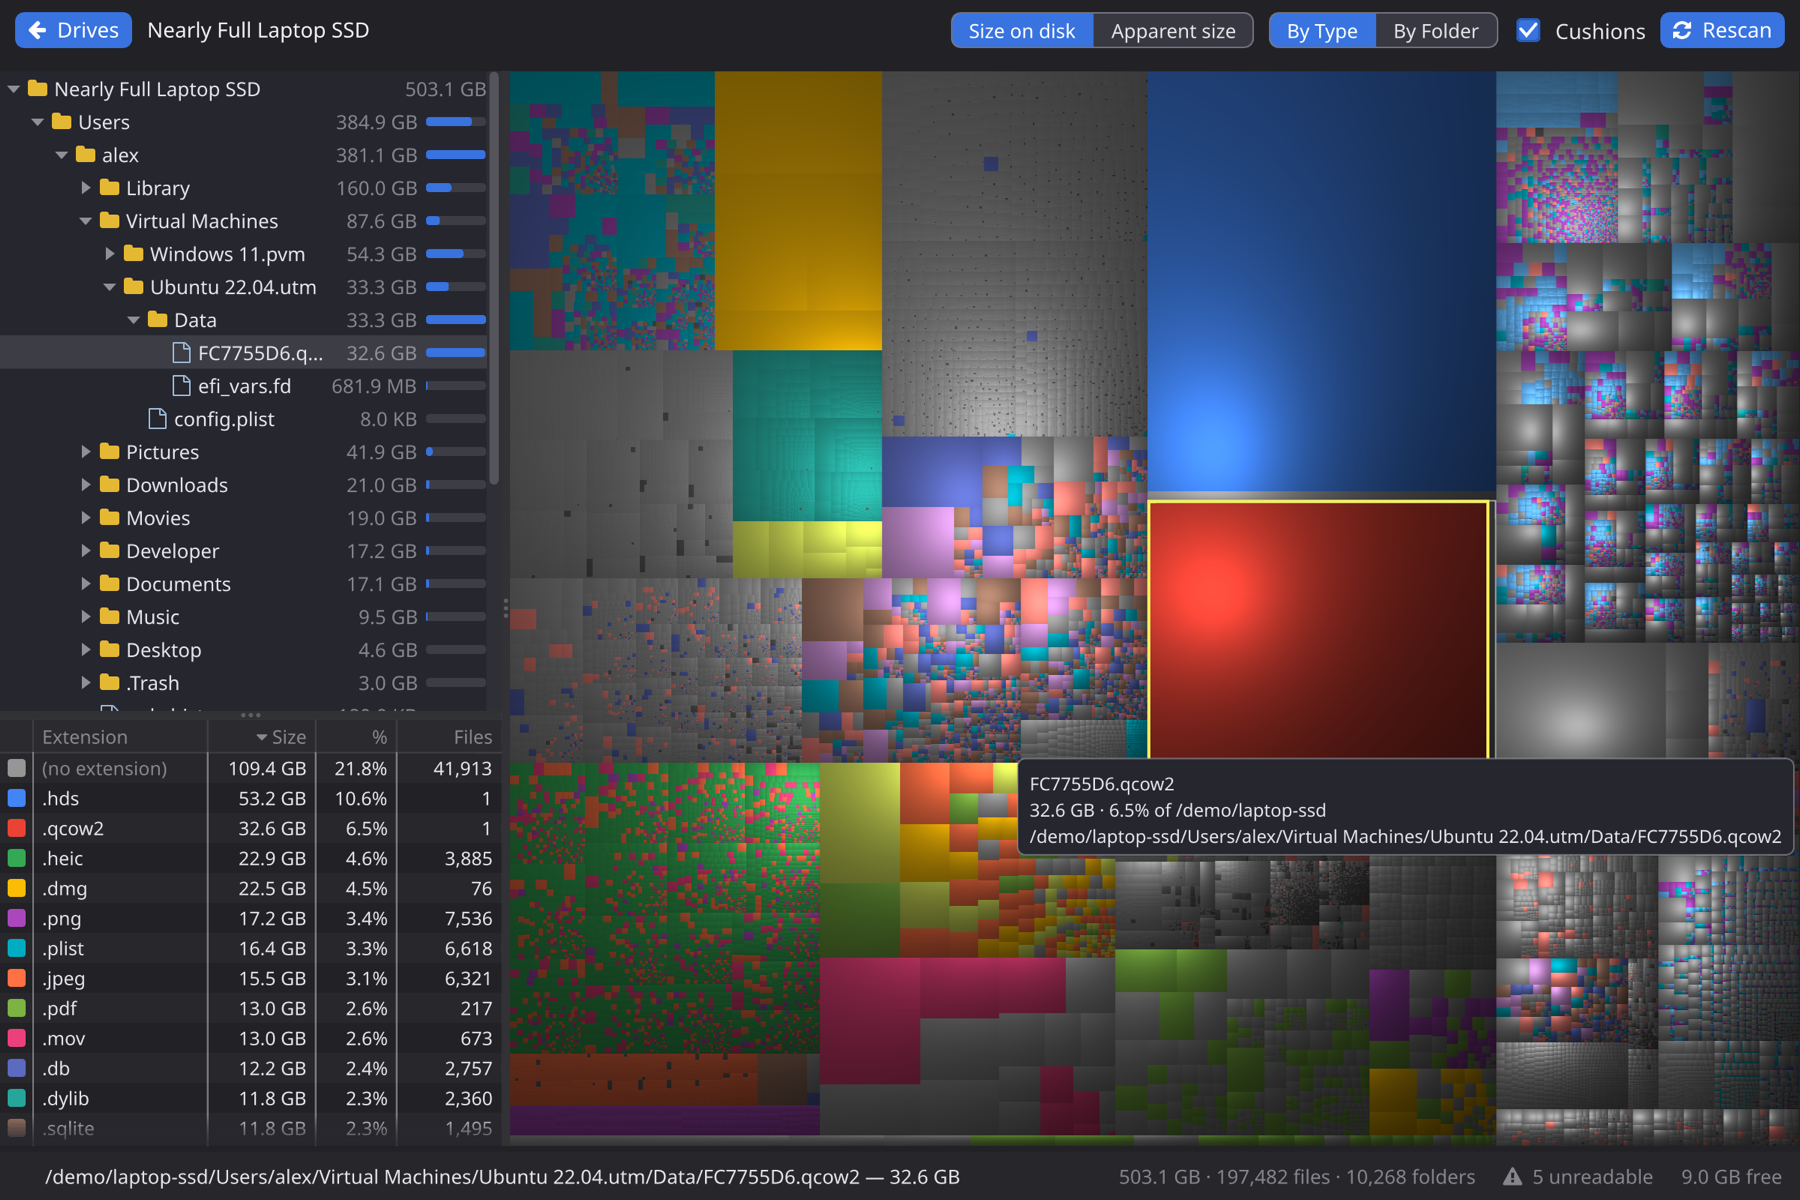
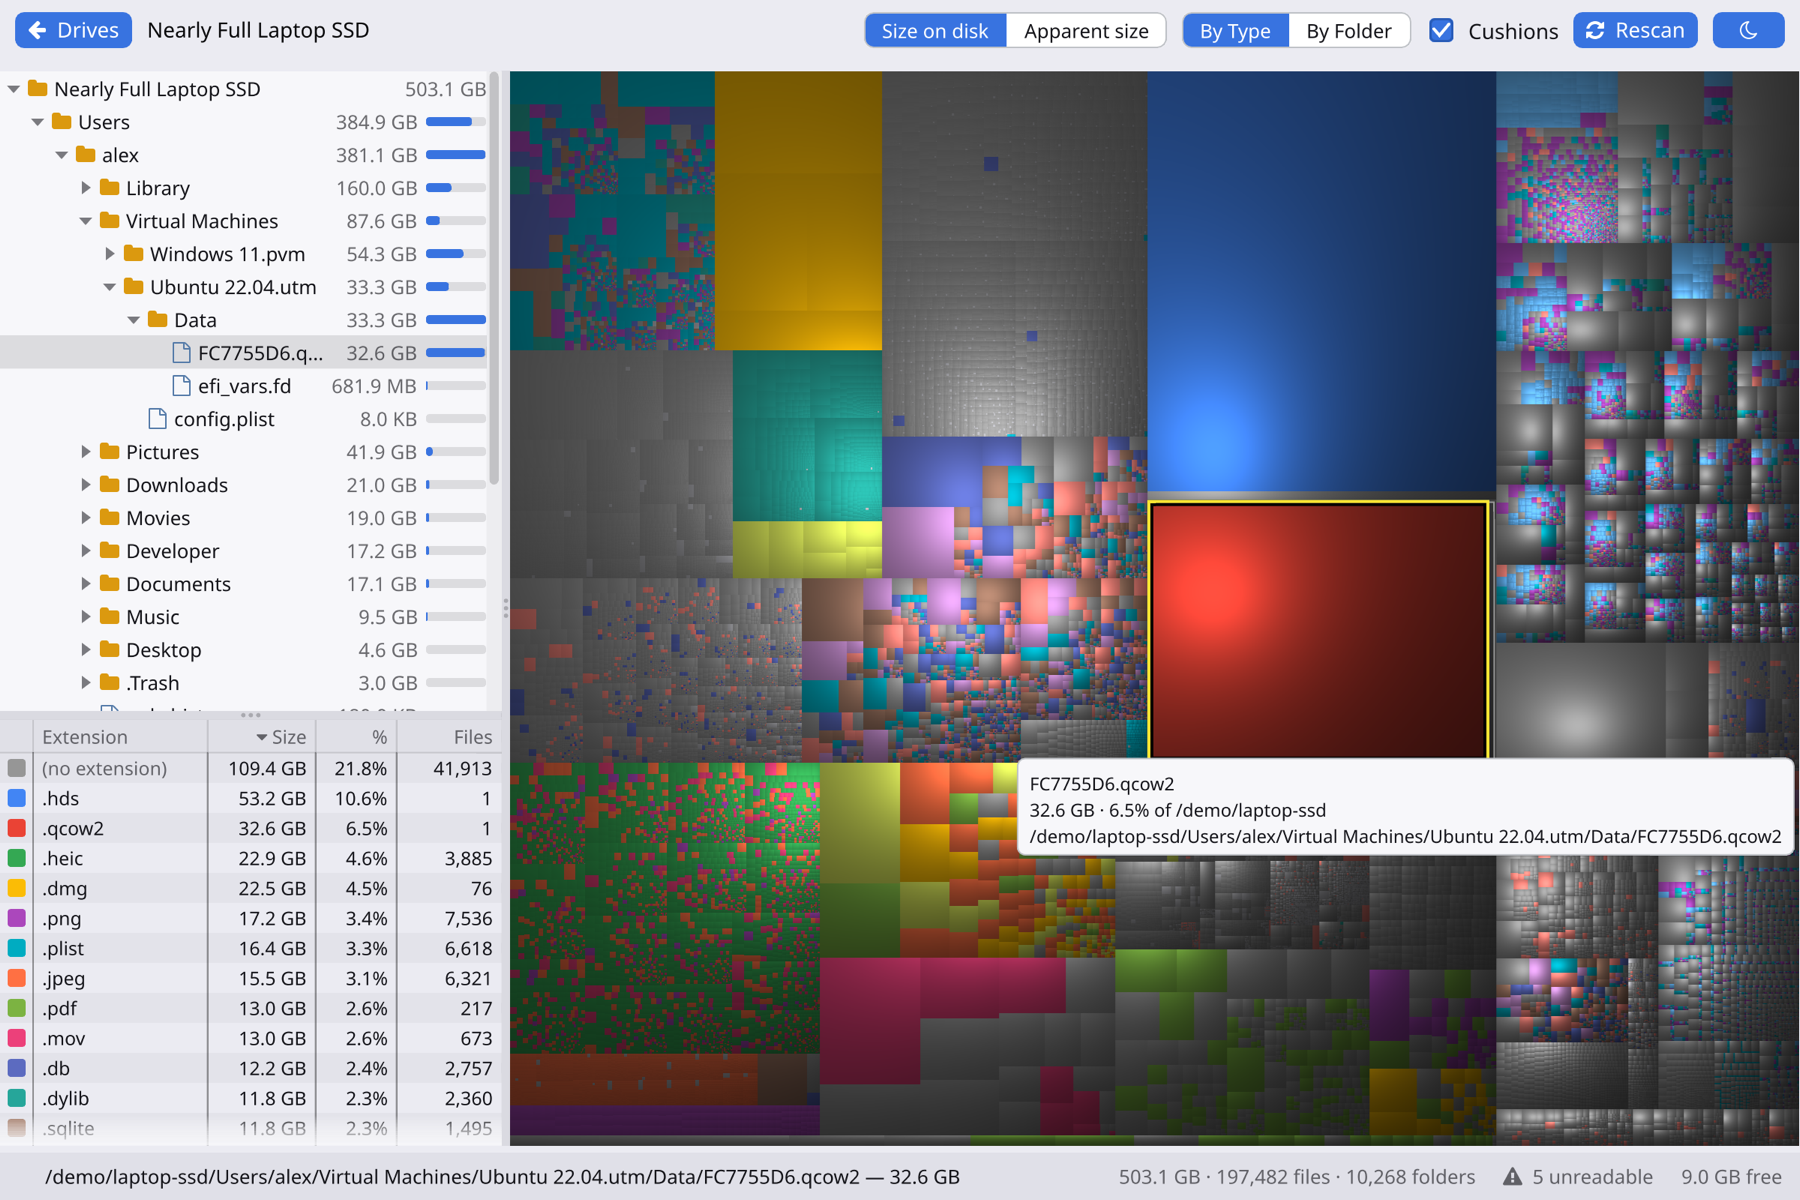
Docs for the theme: README feature, CHANGELOG, PLAN; light README hero
The hero is regenerated in the (now default) light theme with the same
composition: laptop-ssd, the qcow2 selected and its tooltip.

diff --git a/docs/PLAN.md b/docs/PLAN.md
@@ -256,6 +256,18 @@ scheme, splitter ratios and the five most recent scan targets: natively
 values fall back to defaults. The start screen lists the recent scans. The folder tree's
 root row shows the drive or folder name, the full path as its tooltip.
 
+*As built (after v0.1.0):* a light theme by default, with dark and Match System
+(`theme.rs`, `state/theme.rs`), chosen from View ▸ Theme or the toolbar's sun/moon button
+and remembered in the settings blob (`"theme"`; missing or unknown means light, so
+v0.1.0 blobs start light). It switches live: most widgets paint with agg-gui's current
+`Visuals`; the few built with a theme colour rebuild on `AppState::theme_version`; the
+folder tree recolours its icons in place. The cushion hues are the same in both looks;
+folder-block grey and the empty background follow the look (so the map re-rasterises on a
+flip), and the hover / selection / folder outlines carry a contrasting inner line. Match
+System reads winit's `Window::theme` natively (macOS and Windows; X11 and Wayland report
+nothing, so light) and `prefers-color-scheme` on the web (watched with `matchMedia`); the
+demo page's background follows the remembered theme before the wasm loads.
+
 *As built (M4):* the root is a `Stack`: the menu bar (unless the shell installed the
 macOS system one) over the screen, then the overlays: a `ContextMenuHost` that opens an
 agg-gui `PopupMenu` for `AppState::request_context_menu` (from the map and the tree), the

diff --git a/README.md b/README.md
@@ -35,9 +35,11 @@ server). It never reads anything on your computer.
   Explorer / Show in File Manager, Open, Copy Path, Zoom Here, Zoom to Parent, Rescan
   Folder (in the background, spliced into the map) and Move to Trash (confirmed first;
   never a permanent delete). Short notices in the corner say what happened.
+- **Light or dark.** Light by default; switch to dark, or follow the system, from
+  View ▸ Theme or the sun/moon button in the toolbar. It changes at once, no restart.
 - **Native feel.** The system menu bar on macOS (with shortcuts), an in-window menu bar
-  elsewhere; remembers the size mode, colours, shading, splitter positions, window size
-  and the last five folders and drives you scanned.
+  elsewhere; remembers the size mode, colours, shading, theme, splitter positions, window
+  size and the last five folders and drives you scanned.
 
 ## Install
 

diff --git a/CHANGELOG.md b/CHANGELOG.md
@@ -5,8 +5,17 @@ All notable changes to HDTreeMap are documented here.
 ## Unreleased
 
 ### Added
+- A light theme, now the default, with a dark one and Match System (the OS appearance on
+  macOS and Windows, `prefers-color-scheme` on the web; light where it cannot be read).
+  Choose it from View ▸ Theme or the toolbar's sun/moon button; it switches live and is
+  remembered (settings from 0.1.0 start light). Map outlines get a contrasting inner line
+  so they show on any rectangle, and the map's neutral greys follow the theme. The web
+  demo page is light too, and dark from the first paint when dark is remembered.
 - `run-mac.command`: a double-click macOS launcher that builds a release binary and
   starts the app, passing its arguments through (`[PATH | --demo ID]`).
+
+### Changed
+- The README hero shows the light theme.
 
 ## 0.1.0 — 2026-10-10
 
